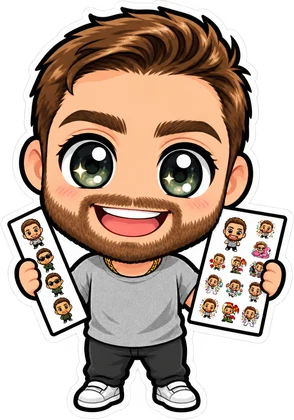
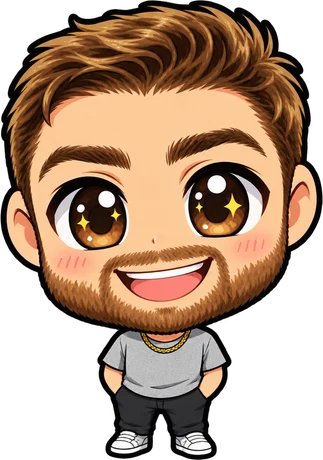
Events page styles: Chibi, Pixar-style, Simpsons-style, Van Gogh + custom (#47)
* Fix sticker generation: fall back off retired gpt-image-1; disable free-gen limit

Production /api/generate was failing with OpenAI 400 "The model
'gpt-image-1' does not exist". Try the configured model, then
gpt-image-2 -> gpt-image-1.5 -> gpt-image-1-mini, caching the first that
works. Also send the real image mime type instead of labelling JPEGs png.

The client-side soft paywall is now off unless
NEXT_PUBLIC_FREE_GENERATION_LIMIT is set.

Claude-Session: https://claude.ai/code/session_017HufSgAqXnGG7RzDtHyaLM

* Add MeSticker Booth kiosk concept: procedural Blender model + textures

Claude-Session: https://claude.ai/code/session_017HufSgAqXnGG7RzDtHyaLM

* Kiosk concept: final renders, packed .blend and .glb export

Claude-Session: https://claude.ai/code/session_017HufSgAqXnGG7RzDtHyaLM

* Fallback image models: use gpt-image-2.5 family (1.5/1-mini shut down Dec 1)

Claude-Session: https://claude.ai/code/session_017HufSgAqXnGG7RzDtHyaLM

* Add Booth v0: crude plywood booth around a Yoga + PixCut S1 (model, renders)

Claude-Session: https://claude.ai/code/session_017HufSgAqXnGG7RzDtHyaLM

* Add full-size MeSticker Photo Booth: concept model + fabrication package

Drawing set (10 sheets PDF + SVG), panel DXFs, tube/panel cut lists,
OBJ/STL/GLB fabrication model and renders, all generated from fab/spec.py.

Claude-Session: https://claude.ai/code/session_017HufSgAqXnGG7RzDtHyaLM
[…]

diff --git a/src/app/events/page.tsx b/src/app/events/page.tsx
@@ -28,10 +28,9 @@ const SHEETS = [
 
 const STYLES = [
   { file: "/events/styles/chibi.webp", name: "Chibi" },
-  { file: "/events/styles/pixar.webp", name: "3D animated" },
-  { file: "/events/styles/simpsons.webp", name: "Yellow sitcom" },
-  { file: "/events/styles/spongebob.webp", name: "Undersea cartoon" },
-  { file: "/events/styles/rick-and-morty.webp", name: "Sci-fi cartoon" },
+  { file: "/events/styles/pixar.webp", name: "Pixar-style 3D" },
+  { file: "/events/styles/simpsons.webp", name: "Simpsons-style" },
+  { file: "/events/styles/vangogh.webp", name: "Van Gogh painting" },
 ];
 
 const THEMES = [
@@ -144,16 +143,27 @@ export default function EventsPage() {
           every sheet. Want something one-of-a-kind? We can design a custom style just for your event.
         </p>
 
-        <h3 className="mt-10 font-display text-xl font-bold">Cartoon styles</h3>
+        <h3 className="mt-10 font-display text-xl font-bold">Pick a style, or invent your own</h3>
         <div className="mt-4 grid grid-cols-2 gap-4 sm:grid-cols-3 lg:grid-cols-5">
           {STYLES.map((st) => (
             <figure key={st.file} className="rounded-3xl bg-white p-4 text-center shadow-sm">
               {/* eslint-disable-next-line @next/next/no-img-element */}
-              <img src={st.file} alt={`${st.name} style sticker`} loading="lazy" className="mx-auto aspect-square w-full object-contain" />
+              <img src={st.file} alt={`${st.name} sticker`} loading="lazy" className="mx-auto aspect-square w-full object-contain" />
               <figcaption className="mt-2 font-display font-bold">{st.name}</figcaption>
             </figure>
           ))}
+          {/* custom */}
+          <a
+            href="#book"
+            className="col-span-2 flex flex-col items-center justify-center rounded-3xl border-[3px] border-dashed border-primary/40 bg-primary/5 p-5 text-center transition-colors hover:bg-primary/10 sm:col-span-1"
+          >
+            <span className="text-5xl">✨</span>
+            <span className="mt-3 font-display text-lg font-bold">Your custom style</span>
+            <span className="mt-1 text-sm text-muted-foreground">Anime, comic book, claymation, your team&apos;s mascot, your brand&apos;s look. If you can describe it, we can make it.</span>
+            <span className="mt-3 text-sm font-bold text-primary">Ask us →</span>
+          </a>
         </div>
+        <p className="mt-3 text-xs text-muted-foreground">Styles are original artistic interpretations. MeSticker isn&apos;t affiliated with or endorsed by any studio or show.</p>
 
         <h3 className="mt-10 font-display text-xl font-bold">Event themes</h3>
         <div className="mt-4 grid grid-cols-2 gap-4 lg:grid-cols-4">
